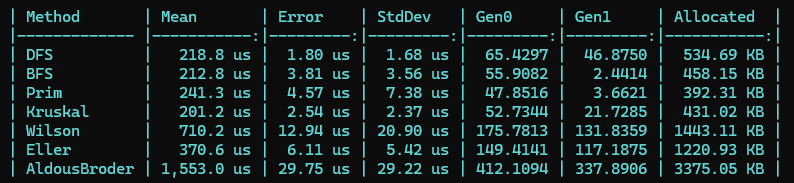
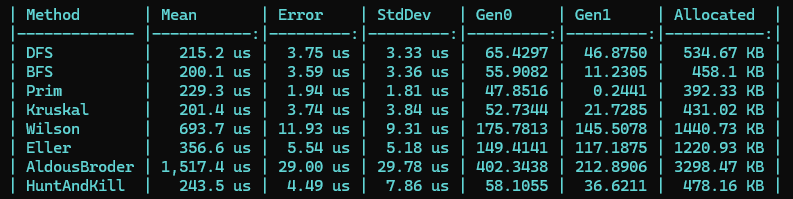
readme

diff --git a/doc/comparison/README.md b/doc/comparison/README.md
@@ -11,6 +11,7 @@
 | Wilson | 1、没有任何统计偏向，是数学上最"公平"的迷宫 <br> 2、通道长度和分支分布完全由概率决定，每次生成差异很大 | 唯一保证均匀分布的算法，理论最优 | 速度不可预测 ，平均时间复杂度较高 |
 | Eller | 1、呈现 水平纹理；行内通道较多，行间连接较少 <br> 2、有明显的"层状"结构，垂直方向通道稀疏 <br> 3、适合矩形迷宫，对非规则形状适应性差 | 1、内存效率极高 <br> 2、理论上可生成无限长的迷宫 | 1、只适用于有明确"行"结构的图 <br> 2、生成的迷宫有明显的水平偏向，视觉上不够自然 |
 | Aldous-Broder | 1、生成均匀 <br> 2、没有统计偏向，所有生成树等概率 | 数学保证均匀分布 | 速度最不可控，大迷宫下可能极慢 |
+| Hunt and Kill | 1、长通道与短分支混合 <br> 2、整体偏向性中等 | 1、内存占用极低 <br> 2、速度稳定可控 | 1、大迷宫时性能明显下降 <br> 2、存在轻微偏向 |
 
 ## 性能对比
 
@@ -38,16 +39,17 @@
 
 #### 六边形
 
-![](./images/hexanonal.png)
+![](./images/hexagonal.png)
 
 ## 总结
 
 | 算法 | 迷宫风格 | 随机偏差 | 死胡同特征 | 速度 | 内存占用 | 稳定性 |
 |------|:-------:|:-------:|:---------:|:---:|:----:|:------:|
-| **DFS** | 长通道、少分支 | 强（方向偏好）| 少而深 | ⚡快 | 低 | ✅ 稳定 |
-| **BFS** | 短通道、多分支 | 轻（径向偏好）| 多而浅 | ⚡快 | 中 | ✅ 稳定 |
-| **Prim** | 珊瑚状生长 | 轻（扩散偏好）| 多而浅 | ⚡快 | 较高 | ✅ 稳定 |
-| **Kruskal** | 均匀纹理 | 无 | 均匀 | ⚡快 |	较高 | ✅ 稳定 |
+| **DFS** | 长通道、少分支 | 强（方向偏好）| 少而深 | ⚡⚡快 | 低 | ✅ 稳定 |
+| **BFS** | 短通道、多分支 | 轻（径向偏好）| 多而浅 | ⚡⚡快 | 中 | ✅ 稳定 |
+| **Prim** | 珊瑚状生长 | 轻（扩散偏好）| 多而浅 | ⚡⚡快 | 较高 | ✅ 稳定 |
+| **Kruskal** | 均匀纹理 | 无 | 均匀 | ⚡⚡快 |	较高 | ✅ 稳定 |
 | **Wilson** | 完全随机 | 无（均匀）| 均匀 | 🐢不可预测 | 中 | ❌ 不稳定 |
-| **Eller** | 层状结构 | 强（水平偏好）| 中等 | ⚡快 | 极低 | ✅ 稳定 |
+| **Eller** | 层状结构 | 强（水平偏好）| 中等 | ⚡⚡快 | 极低 | ✅ 稳定 |
 | **Aldous-Broder** | 完全随机 | 无（均匀）| 均匀 | 🐢🐢极慢 | 低 | ❌ 极不稳定 |
+| **Hunt and Kill** | 长通道+岛屿式分支 | 轻（索引偏好）| 中等，集中在跳跃点 | ⚡中等 | 极低 | ✅ 稳定 |

diff --git a/README.md b/README.md
@@ -21,15 +21,16 @@
 
 每种形状都有多种算法
 
-| 算法 | 随机偏差 | 死胡同特征 | 速度 | 空间 |
-|------|---------|-----------|-----|------|
-| **DFS** | 强（方向偏好）| 少而深 | ⚡快 | 低 |
-| **BFS** | 轻（径向偏好）| 多而浅 | ⚡快 | 中 |
-| **Prim** | 轻（扩散偏好）| 多而浅 | ⚡快 | 较高 |
-| **Kruskal** | 无 | 均匀 | ⚡快 |	较高 |
-| **Wilson** | 无（均匀）| 均匀 | 🐢不可预测 | 中 |
-| **Eller** | 强（水平偏好）| 中等 | ⚡快 | 极低 | 
-| **Aldous-Broder** | 无（均匀）| 均匀 | 🐢🐢极慢 | 低 |
+| 算法 | 迷宫风格 | 随机偏差 | 死胡同特征 | 速度 | 内存占用 | 稳定性 |
+|------|:-------:|:-------:|:---------:|:---:|:----:|:------:|
+| **DFS** | 长通道、少分支 | 强（方向偏好）| 少而深 | ⚡⚡快 | 低 | ✅ 稳定 |
+| **BFS** | 短通道、多分支 | 轻（径向偏好）| 多而浅 | ⚡⚡快 | 中 | ✅ 稳定 |
+| **Prim** | 珊瑚状生长 | 轻（扩散偏好）| 多而浅 | ⚡⚡快 | 较高 | ✅ 稳定 |
+| **Kruskal** | 均匀纹理 | 无 | 均匀 | ⚡⚡快 |	较高 | ✅ 稳定 |
+| **Wilson** | 完全随机 | 无（均匀）| 均匀 | 🐢不可预测 | 中 | ❌ 不稳定 |
+| **Eller** | 层状结构 | 强（水平偏好）| 中等 | ⚡⚡快 | 极低 | ✅ 稳定 |
+| **Aldous-Broder** | 完全随机 | 无（均匀）| 均匀 | 🐢🐢极慢 | 低 | ❌ 极不稳定 |
+| **Hunt and Kill** | 长通道+岛屿式分支 | 轻（索引偏好）| 中等，集中在跳跃点 | ⚡中等 | 极低 | ✅ 稳定 |
 
 > [!NOTE]  
 > 各算法生成迷宫的特征及性能对比的详情，请看[这里](./doc/comparison/README.md)

diff --git a/doc/reference/circular/circular_maze.md b/doc/reference/circular/circular_maze.md
@@ -21,6 +21,14 @@ public class CircularMazeGenerator
 - **rings** 环数
 - **sectors** 最大分割数
 - **algorithm** 生成算法
+    - DFS
+    - BFS
+    - Prim
+    - Kruskal
+    - Wilson
+    - Eller
+    - Aldous-Broder
+    - Hunt and Kill
 - **strategy** 分割策略
     - Arc 按弧长分割
     - Area 按面积分割

diff --git a/doc/reference/triangular/triangular_maze.md b/doc/reference/triangular/triangular_maze.md
@@ -21,6 +21,14 @@ public class TriangularMazeGenerator
     - Upward 朝上
     - Downward 朝下
 - **algorithm** 生成算法
+    - DFS
+    - BFS
+    - Prim
+    - Kruskal
+    - Wilson
+    - Eller
+    - Aldous-Broder
+    - Hunt and Kill
 
 ## 示例
 

diff --git a/doc/reference/retangular/retangular_maze.md b/doc/reference/retangular/retangular_maze.md
@@ -19,6 +19,14 @@ public class RectangularMazeGenerator
 - **width**  宽度
 - **height** 高度
 - **algorithm** 生成算法
+    - DFS
+    - BFS
+    - Prim
+    - Kruskal
+    - Wilson
+    - Eller
+    - Aldous-Broder
+    - Hunt and Kill
 
 ## 示例
 

diff --git a/doc/reference/circularhexagon/circularhexagon_maze.md b/doc/reference/circularhexagon/circularhexagon_maze.md
@@ -16,6 +16,14 @@ public class CircularHexagonMazeGenerator
 
 - **size** 边长
 - **algorithm** 生成算法
+    - DFS
+    - BFS
+    - Prim
+    - Kruskal
+    - Wilson
+    - Eller
+    - Aldous-Broder
+    - Hunt and Kill
 
 ## 示例
 

diff --git a/doc/reference/hexagonal/hexagonal_maze.md b/doc/reference/hexagonal/hexagonal_maze.md
@@ -16,6 +16,14 @@ public class HexagonalMazeGenerator
 
 - **size** 边长
 - **algorithm** 生成算法
+    - DFS
+    - BFS
+    - Prim
+    - Kruskal
+    - Wilson
+    - Eller
+    - Aldous-Broder
+    - Hunt and Kill
 
 ## 示例
 

diff --git a/doc/reference/honeycomb/honeycomb_maze.md b/doc/reference/honeycomb/honeycomb_maze.md
@@ -16,6 +16,14 @@ public class HoneycombMazeGenerator
 
 - **size** 边长
 - **algorithm** 生成算法
+    - DFS
+    - BFS
+    - Prim
+    - Kruskal
+    - Wilson
+    - Eller
+    - Aldous-Broder
+    - Hunt and Kill
 
 ## 示例
 
